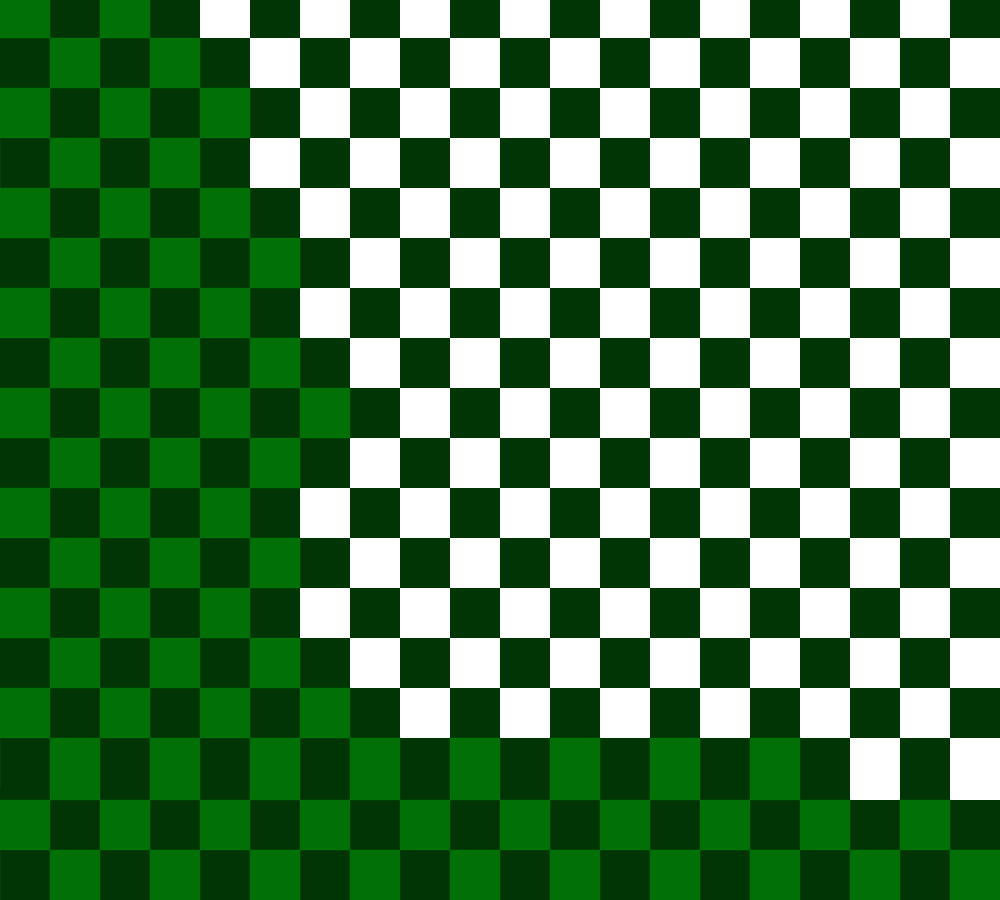
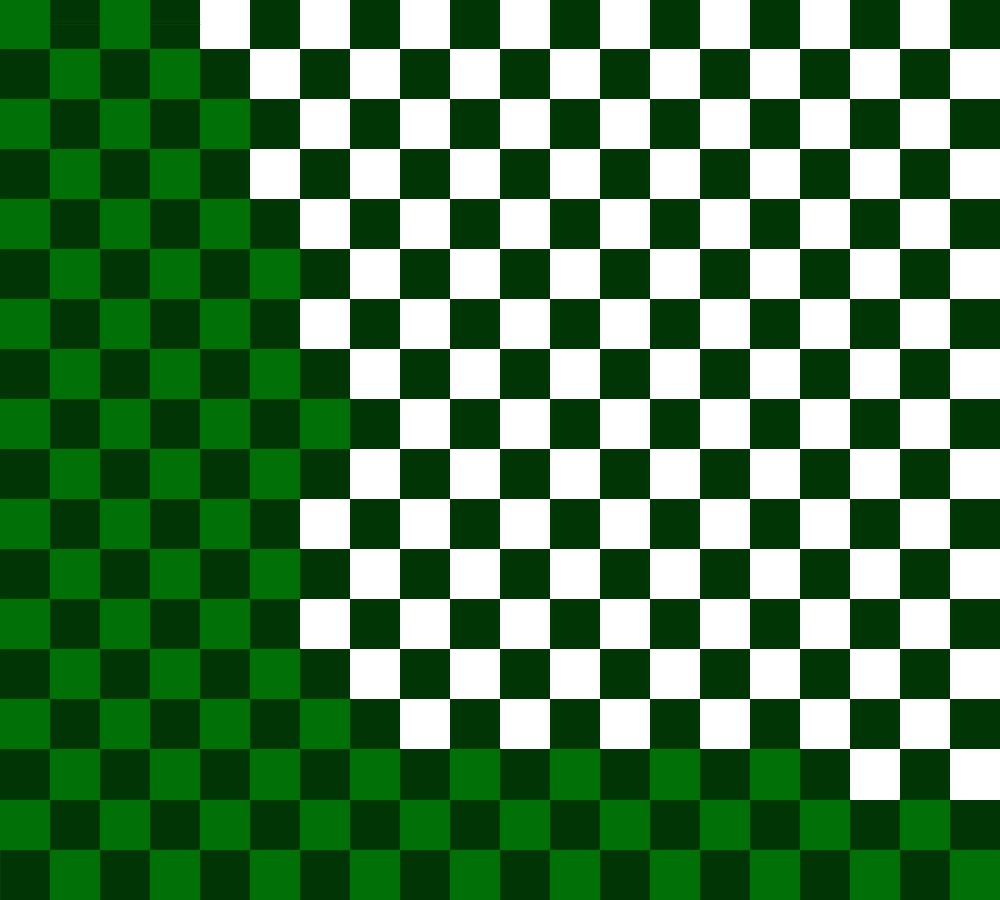
Moving stuff

diff --git a/Head.py b/Head.py
@@ -2,7 +2,9 @@ import pygame, sys, math
 
 
 class Head():
-    def __init__(self, maxSpeed=4, startPos=[0,0]):
+    def __init__(self, maxSpeed=5, startPos=[0,0]):
+        self.tileSize = 50
+        
         self.imagesRight = [pygame.image.load("Art/Snake/snake_head_right.PNG")]
         self.imagesDown = [pygame.image.load("Art/Snake/snake_head_down.PNG")]
         self.imagesLeft = [pygame.image.load("Art/Snake/snake_head_left.PNG")]
@@ -39,30 +41,33 @@ class Head():
     def goKey(self, direction):
         self.prevDir = self.direction
         self.direction = direction
+    
+    def upDateDirection(self):
+        print("........................")
         if self.direction == "left":
             self.speedx = -self.maxSpeed
+            self.speedy = 0
             self.images =self.imagesLeft
         elif self.direction == "right":
             self.speedx = self.maxSpeed
+            self.speedy = 0
             self.images =self.imagesRight
         elif self.direction == "up":
+            self.speedx = 0
             self.speedy = -self.maxSpeed
             self.images =self.imagesUp
         elif self.direction == "down":
+            self.speedx = 0
             self.speedy = self.maxSpeed
             self.images =self.imagesDown
-        elif self.direction == "sleft":
-            self.speedx = 0
-        elif self.direction == "sright":
-            self.speedx = 0
-        elif self.direction == "sup":
-            self.speedy = 0
-        elif self.direction == "sdown":
-            self.speedy = 0
+        
             
     def move(self):
         self.speed = [self.speedx, self.speedy]
-        self.rect = self.rect.move(self.speed)  
+        self.rect = self.rect.move(self.speed) 
+        print((self.rect.centerx-self.tileSize/2)%50, (self.rect.centery-self.tileSize/2)%50)
+        if (self.rect.centerx-self.tileSize/2)%50 == 0 and (self.rect.centery-self.tileSize/2)%50==0:
+            self.upDateDirection()
         
     def animate(self):
         if self.animationTimer >=self.animationTimerMax:

diff --git a/Main.py b/Main.py
@@ -19,11 +19,17 @@ pygame.mixer.music.play()
 
 clock = pygame.time.Clock();
 
+tileSize = 50
+
 score = Hud ("Score: ",[0,0])
-player = Head(4,[1000/5, 900/2])
+player = Head(5,[tileSize*10+tileSize/2,tileSize*9+tileSize/2])
 snake = [player]
-snake += [Tail(player.maxSpeed, player.rect, player.direction)]
+#snake += [Tail(player.maxSpeed, player.rect, player.direction)]
 bomb = Bomb([900,800])
+
+bgImage = pygame.image.load("Art/Background/board.png")
+bgRect = bgImage.get_rect()
+
 
 while True:
     for event in pygame.event.get():
@@ -38,15 +44,7 @@ while True:
                 player.goKey("up")
             elif event.key == pygame. K_s or event.key == pygame.K_DOWN:
                 player.goKey("down")
-        elif event.type == pygame.KEYUP:
-            if event.key == pygame. K_a or event.key == pygame.K_LEFT:
-                player.goKey("sleft")
-            elif event.key == pygame. K_d or event.key == pygame.K_RIGHT:
-                player.goKey("sright")
-            elif event.key == pygame. K_w or event.key == pygame.K_UP:
-                player.goKey("sup")
-            elif event.key == pygame. K_s or event.key == pygame.K_DOWN:
-                player.goKey("sdown")
+        
                 
                 
                 
@@ -65,6 +63,7 @@ while True:
     screen.fill([30,40,50])
    # for pellet in pellets:
     #    screen.blit(pellet.image, pellet.rect)
+    screen.blit(bgImage, bgRect)
     screen.blit(score.image, score.rect)
     for segment in snake:
         screen.blit(segment.image, segment.rect)
